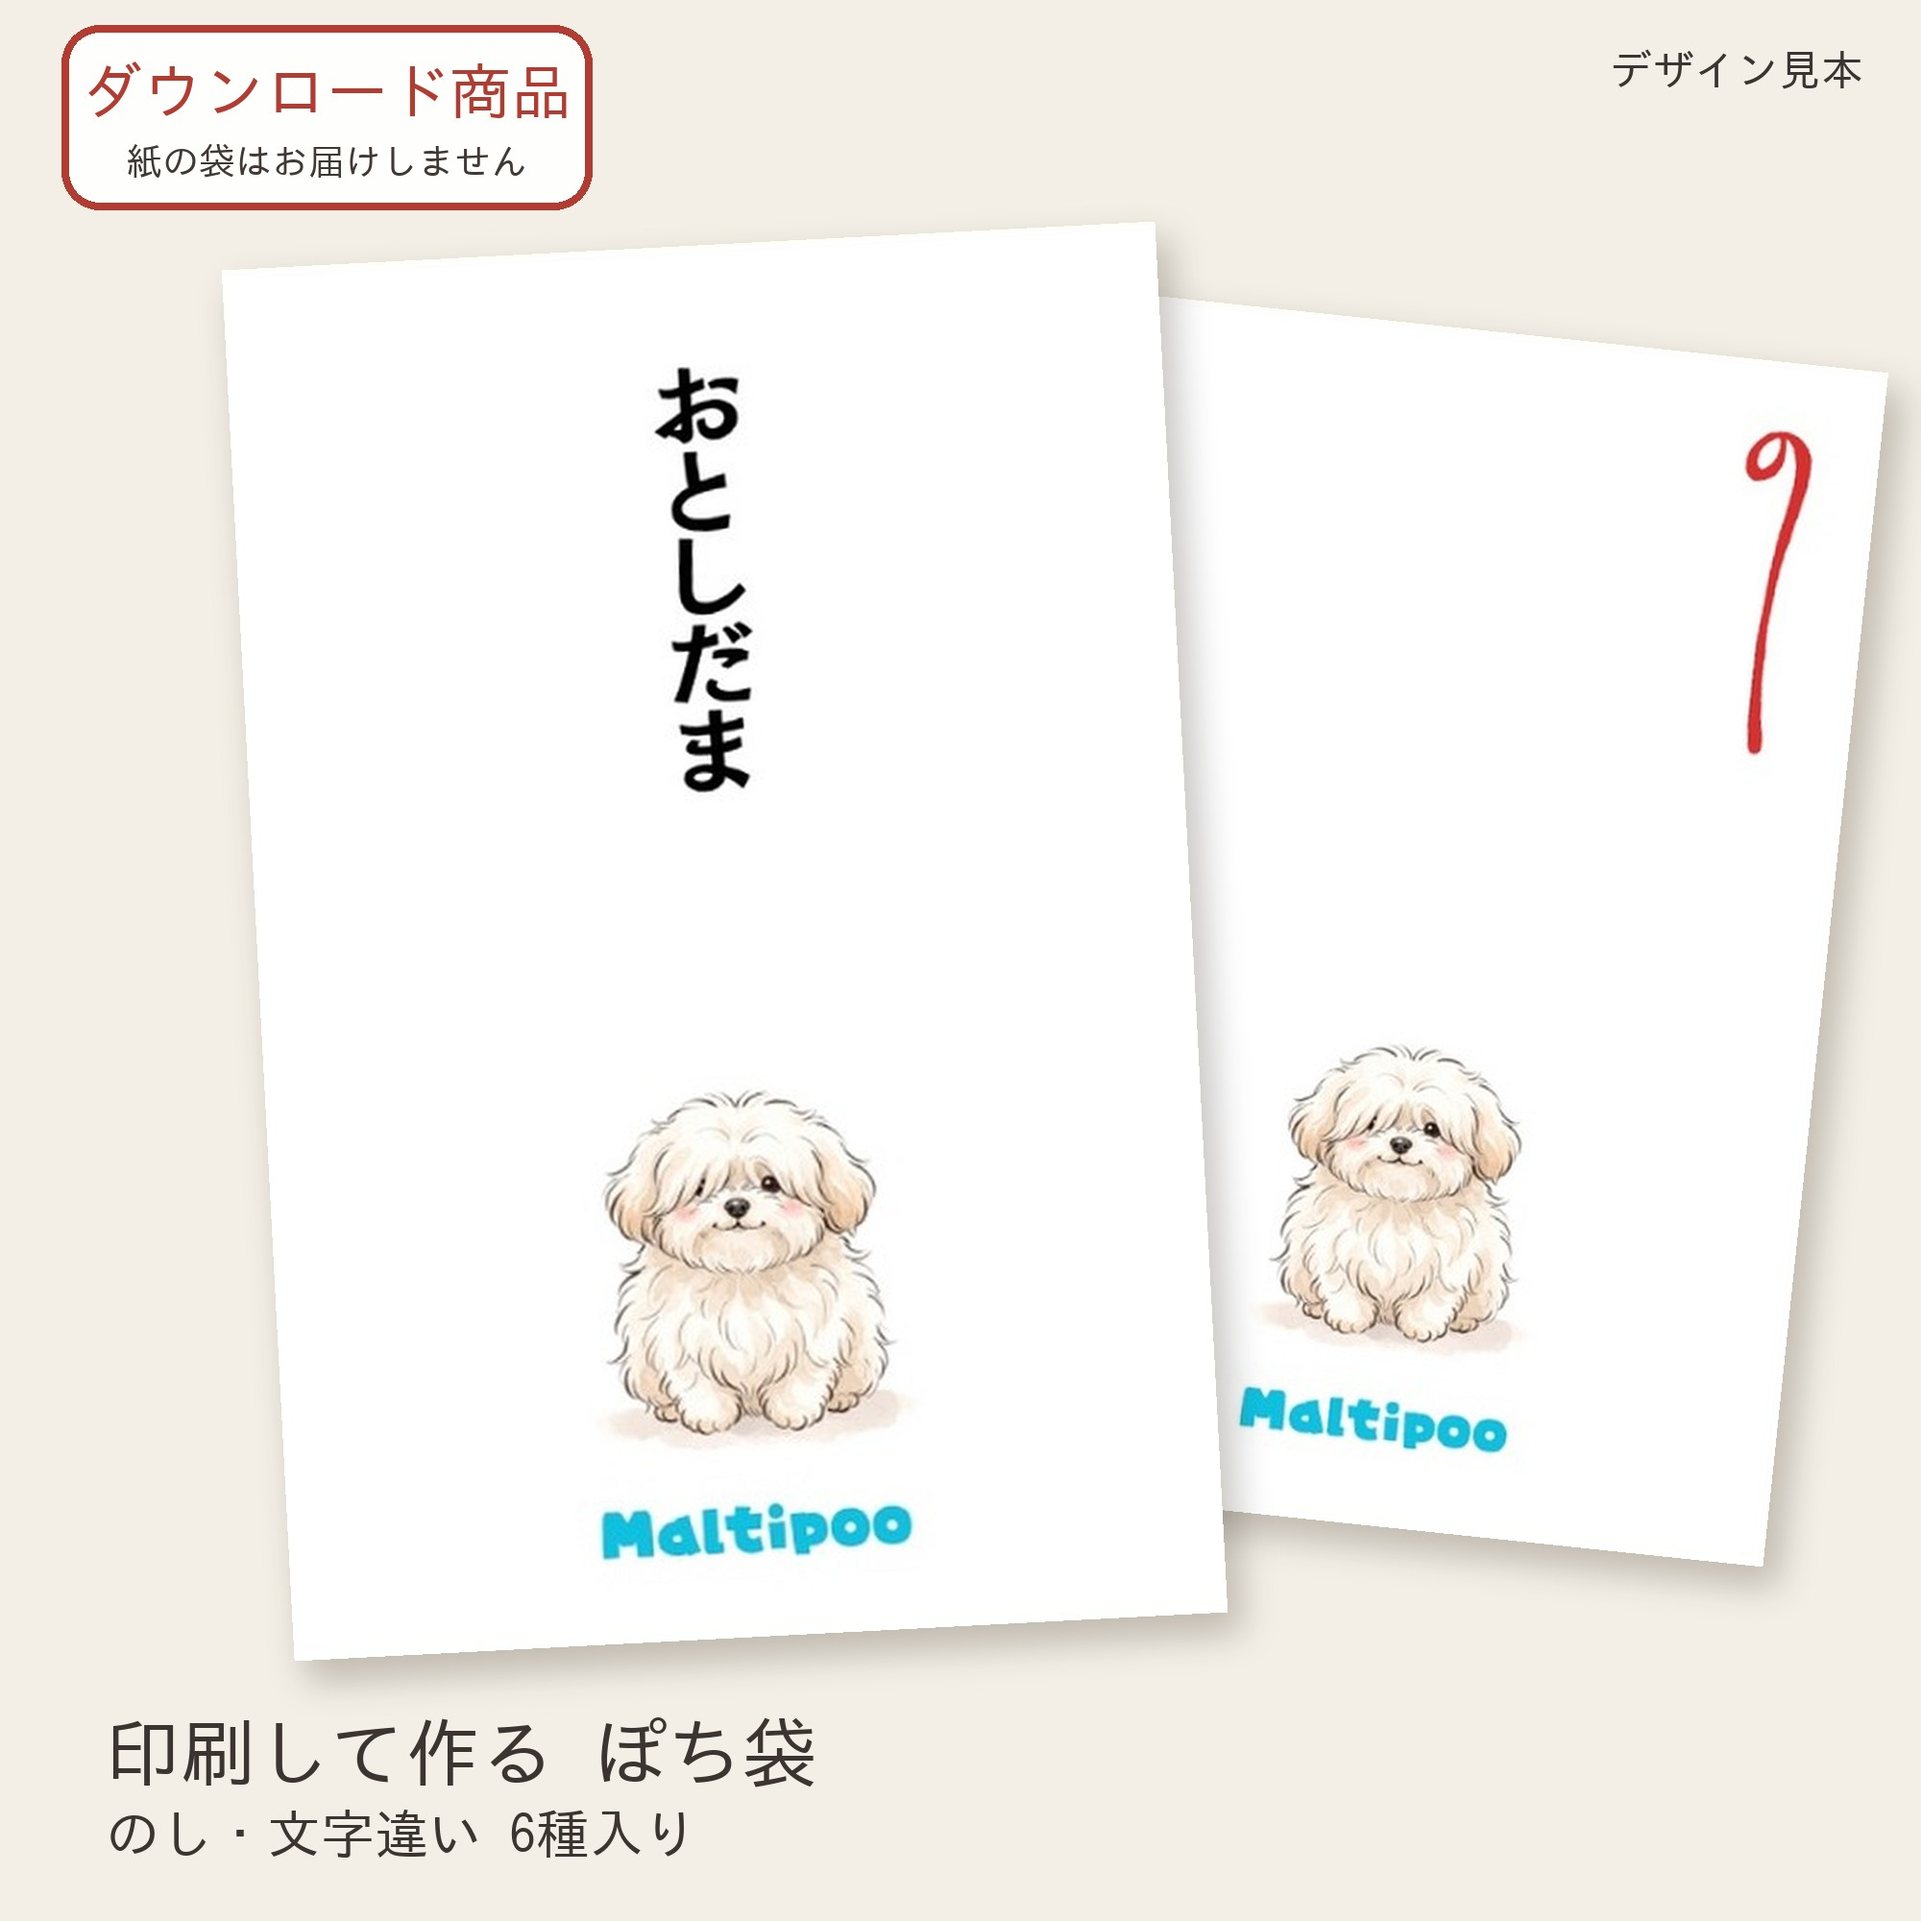
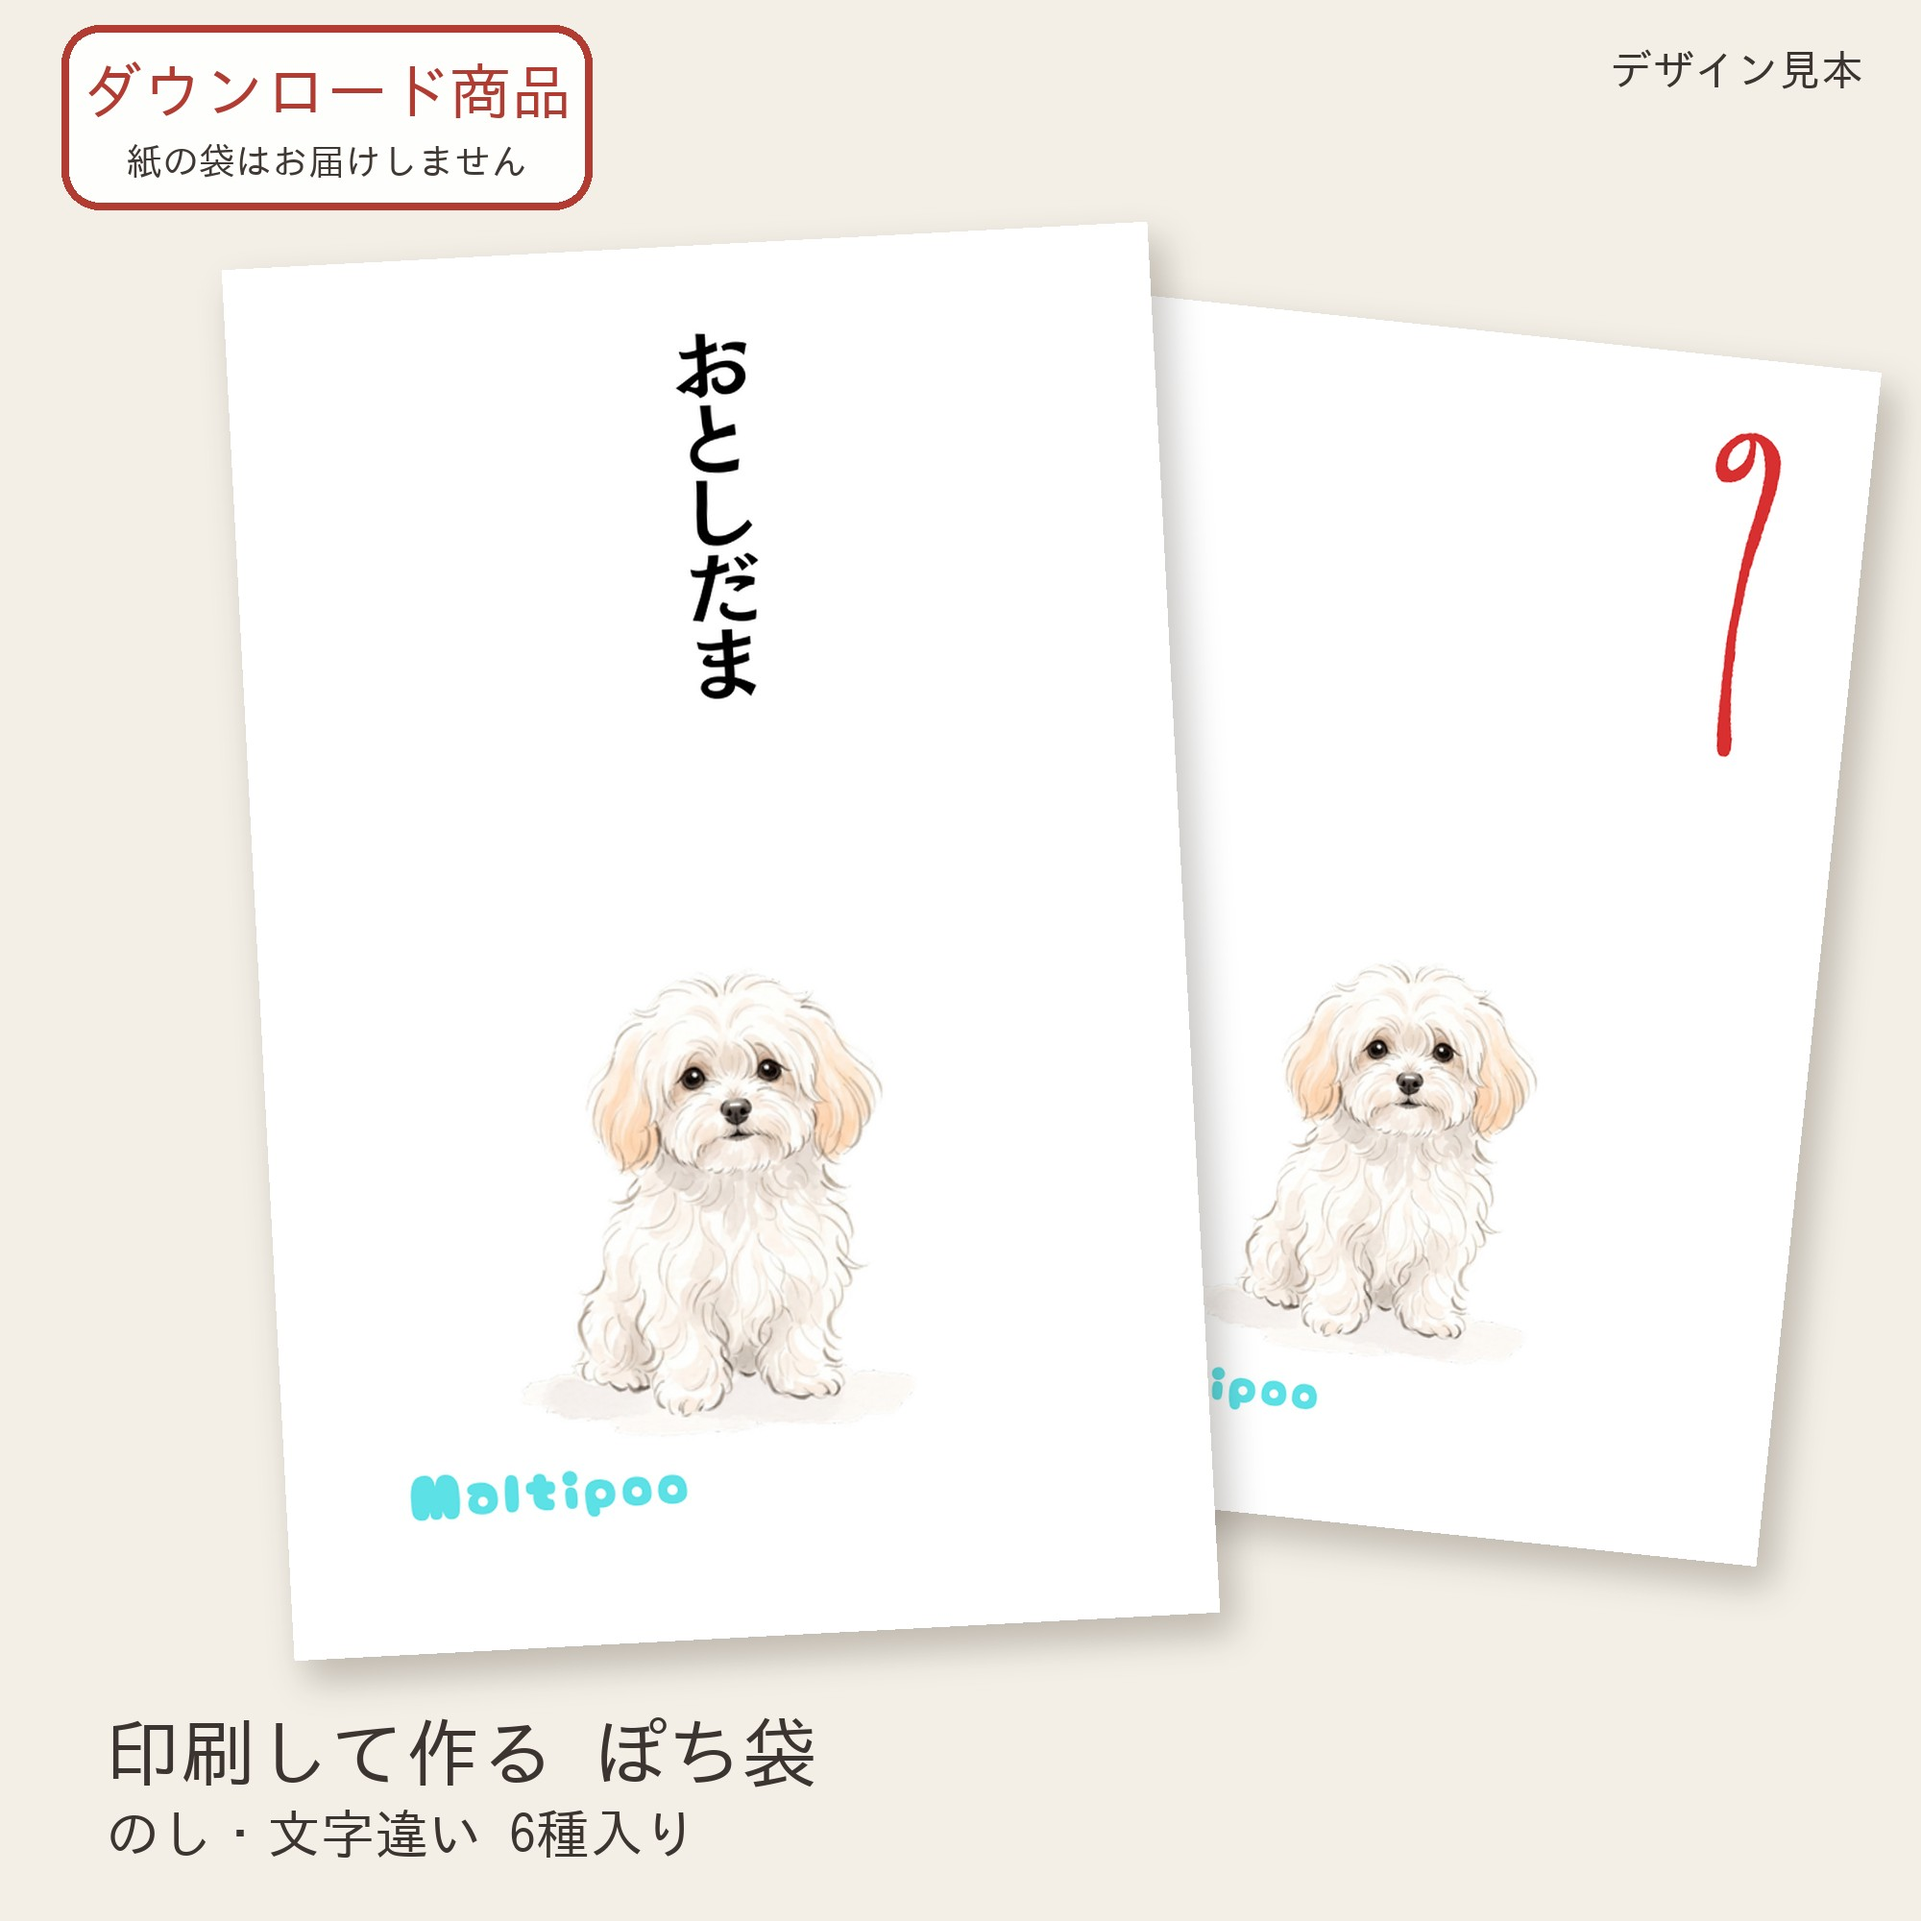
マルプー: 作り直した絵で商品画像(1・3枚目)
Claude-Session: https://claude.ai/code/session_017Q7oY74jx7snH393ipSzN7

diff --git a/docs/minne-pochi-listing-maltipoo.md b/docs/minne-pochi-listing-maltipoo.md
@@ -82,7 +82,7 @@
 - 絵を確かめた(作り直した絵): 白い長い毛に、耳がうすいアプリコット色のマルプー(成犬)が座って、前髪の下から丸い黒い目でこちらを見ている。前の絵のほおの赤み・にっこりの口・太い線はなくなり、漫画っぽさはない
 - 新しい絵は、目が前髪に「うもれる」ほどではなく、前髪の下からのぞいている。説明文を「のびた前髪の下から、つぶらな黒い目でじっとこちらを見つめています」に直した
 - 前の場面写真(ユーザーが自分で作ったもの)は前の絵なので使わない
-- ぽち袋のPDFはまだ(ユーザーが作っている)。届いたら、名前のつづり・大きさ・文字の色を確かめる
+- 袋の名前は「Maltipoo」(水色の丸い書体)。18か所とも正しいつづり。縦書きの文字は黒。袋の表は6ページとも64×95mm
 
 ## 場面写真(Geminiのプロンプト)
 袋は真っ白で、ふたを閉じた表側だけ(ふたの線なし、幅:高さ=2:3)で作ってもらい、本物の絵はあとで `shop/make_scene_blank.py` で貼る。
@@ -100,11 +100,12 @@ Photorealistic, shallow depth of field, gentle shadows, calm muted colors. No pe
 uchinoko-aruaru_maltipoo_pochi.zip(中身: maltipoo_pochi.pdf、maltipoo_postcard_full.pdf、maltipoo_postcard_letter.pdf、howto.pdf)
 
 ## 商品画像
-1. shop/listing_maltipoo_1.jpg(デザイン見本)(まだ。新しいPDFを待っている)
-2. shop/scene_maltipoo_1_note.jpg(場面写真)(まだ)
-3. shop/listing_maltipoo_3.jpg(6種類)(まだ)
+1. shop/listing_maltipoo_1.jpg(デザイン見本)
+2. shop/scene_maltipoo_1_note.jpg(場面写真)(まだ。新しいGeminiの写真を待っている)
+3. shop/listing_maltipoo_3.jpg(6種類)
 4. shop/listing_maltipoo_postcard.jpg(ポストカード2種の見本。`shop/make_postcard_listing.py maltipoo`)
 5. shop/scene_maltipoo_postcard_note.jpg(ポストカードの場面写真。縦向きの机の写真。注記なしは scene_maltipoo_postcard.jpg)
 6. shop/listing_shiba_4.jpg(作り方)
 - ポストカードは縦向き: shop/postcard/postcard_maltipoo_full.pdf、postcard_maltipoo_letter.pdf。もとの絵(2000×2000)から
   `python3 shop/make_postcard.py <絵> maltipoo full --label "Maltipoo"`(letter も同じ)。ZIPでは maltipoo_postcard_full.pdf・maltipoo_postcard_letter.pdf に名前を変える
+- 1と3は `python3 shop/make_from_pdf.py <PDF> maltipoo --overwrite` で作った
